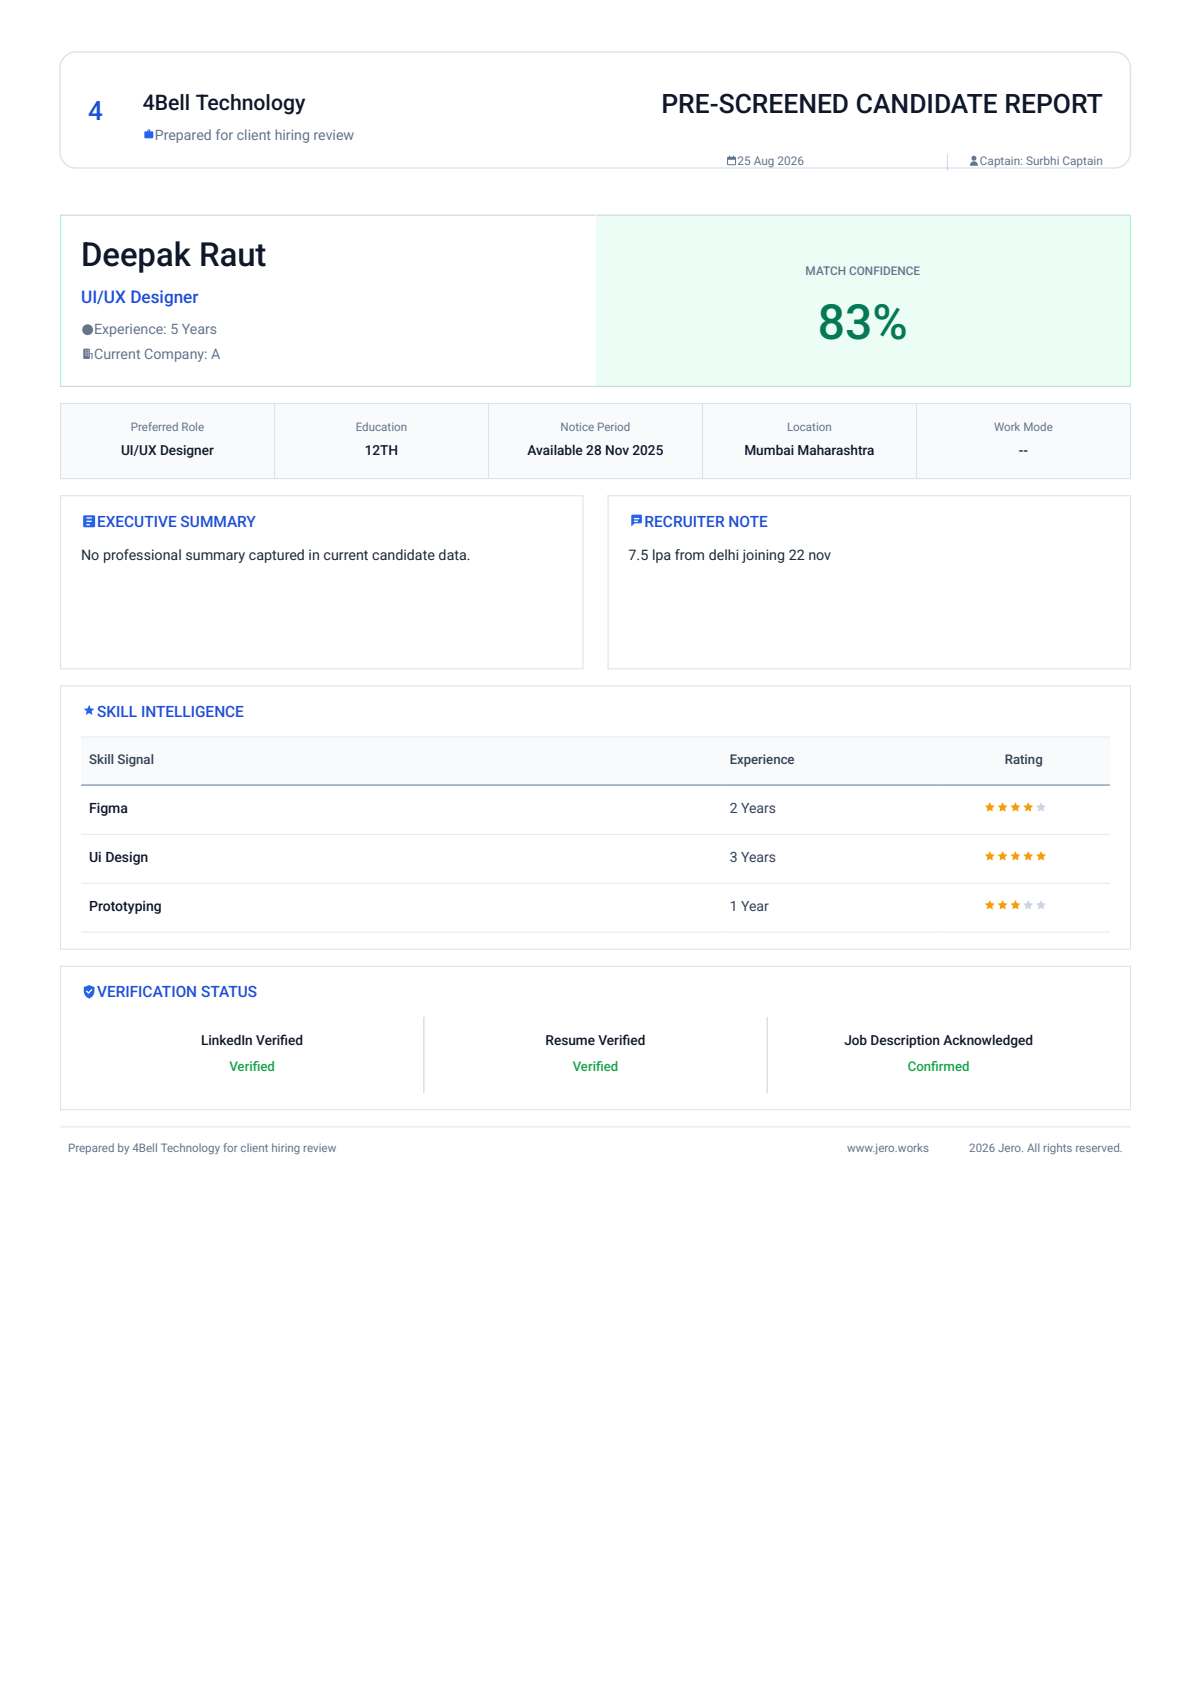
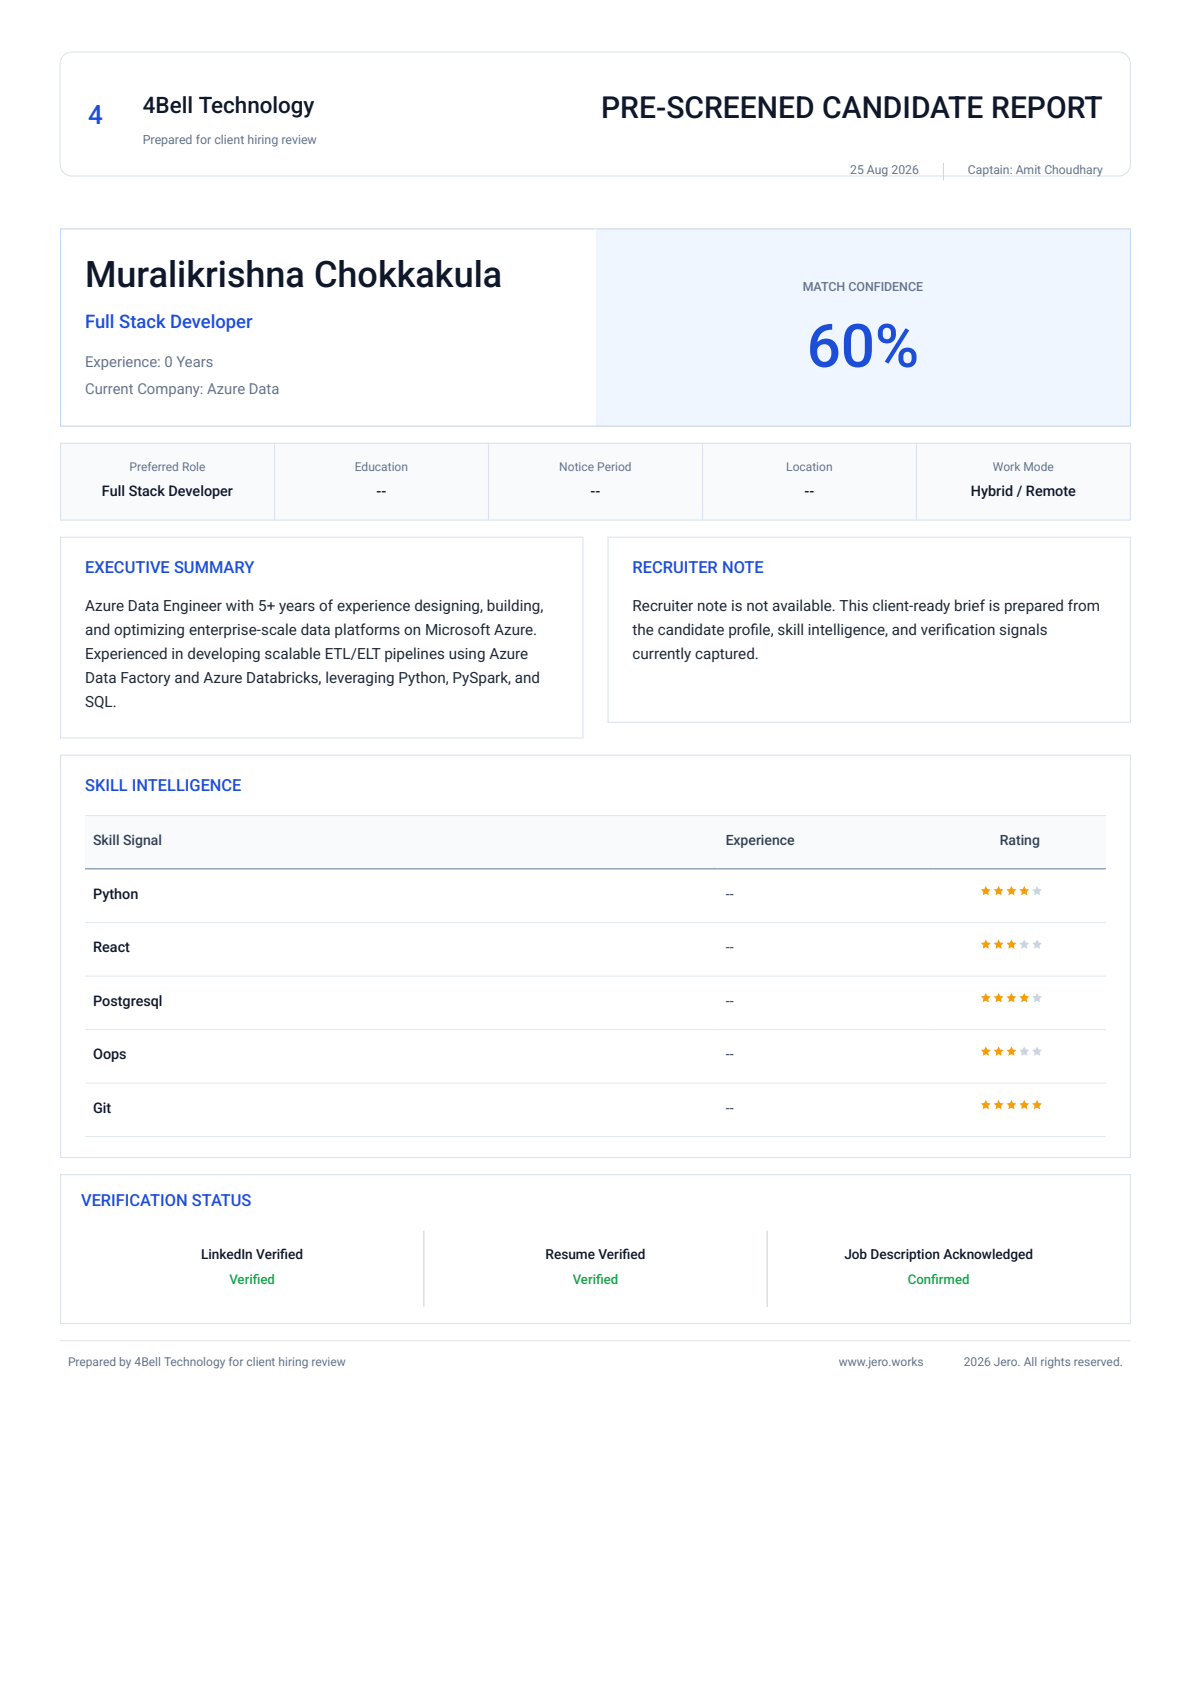
recruiter feedback

diff --git a/resources/views/service_company/job-applications/showdetail.blade.php b/resources/views/service_company/job-applications/showdetail.blade.php
@@ -5529,15 +5529,6 @@ setTimeout(() => {
 var rsPdfReady=null;
 var rsStarGold='<svg viewBox="0 0 24 24" xmlns="http://www.w3.org/2000/svg"><path fill="#f59e0b" d="M12 2.6l2.85 5.78 6.38.93-4.62 4.5 1.09 6.35L12 17.16l-5.7 3 1.09-6.35-4.62-4.5 6.38-.93L12 2.6z"/></svg>';
 var rsStarMuted='<svg viewBox="0 0 24 24" xmlns="http://www.w3.org/2000/svg"><path fill="#cbd5e1" d="M12 2.6l2.85 5.78 6.38.93-4.62 4.5 1.09 6.35L12 17.16l-5.7 3 1.09-6.35-4.62-4.5 6.38-.93L12 2.6z"/></svg>';
-var rsIconBriefcase='<svg viewBox="0 0 24 24" xmlns="http://www.w3.org/2000/svg"><path fill="#2563eb" d="M9 6V5a3 3 0 0 1 3-3h0a3 3 0 0 1 3 3v1h3.5A2.5 2.5 0 0 1 21 8.5v9A2.5 2.5 0 0 1 18.5 20h-13A2.5 2.5 0 0 1 3 17.5v-9A2.5 2.5 0 0 1 5.5 6H9zm2 0h2V5a1 1 0 0 0-2 0v1z"/></svg>';
-var rsIconCalendar='<svg viewBox="0 0 24 24" xmlns="http://www.w3.org/2000/svg"><path fill="#64748b" d="M7 2h2v2h6V2h2v2h1.5A2.5 2.5 0 0 1 21 6.5v12A2.5 2.5 0 0 1 18.5 21h-13A2.5 2.5 0 0 1 3 18.5v-12A2.5 2.5 0 0 1 5.5 4H7V2zm12 8H5v8.5c0 .28.22.5.5.5h13a.5.5 0 0 0 .5-.5V10z"/></svg>';
-var rsIconCaptain='<svg viewBox="0 0 24 24" xmlns="http://www.w3.org/2000/svg"><path fill="#64748b" d="M12 12a5 5 0 1 0 0-10 5 5 0 0 0 0 10zm-8 9a8 8 0 0 1 16 0v1H4v-1z"/></svg>';
-var rsIconCompany='<svg viewBox="0 0 24 24" xmlns="http://www.w3.org/2000/svg"><path fill="#64748b" d="M4 21V4a2 2 0 0 1 2-2h8a2 2 0 0 1 2 2v17h3v-9h-2v-2h3a1 1 0 0 1 1 1v10H4zm4-14h2V5H8v2zm4 0h2V5h-2v2zM8 11h2V9H8v2zm4 0h2V9h-2v2zm-4 4h2v-2H8v2zm4 0h2v-2h-2v2z"/></svg>';
-var rsIconExperience='<svg viewBox="0 0 24 24" xmlns="http://www.w3.org/2000/svg"><path fill="#64748b" d="M12 2a10 10 0 1 0 10 10A10.01 10.01 0 0 0 12 2zm1 11h5v-2h-4V6h-2v7z"/></svg>';
-var rsIconSummary='<svg viewBox="0 0 24 24" xmlns="http://www.w3.org/2000/svg"><path fill="#2563eb" d="M5 3h14a2 2 0 0 1 2 2v14a2 2 0 0 1-2 2H5a2 2 0 0 1-2-2V5a2 2 0 0 1 2-2zm3 5h8V6H8v2zm0 5h8v-2H8v2zm0 5h5v-2H8v2z"/></svg>';
-var rsIconNote='<svg viewBox="0 0 24 24" xmlns="http://www.w3.org/2000/svg"><path fill="#2563eb" d="M4 4a2 2 0 0 1 2-2h12a2 2 0 0 1 2 2v9a2 2 0 0 1-2 2H9l-5 5V4zm4 3v2h8V7H8zm0 4v2h6v-2H8z"/></svg>';
-var rsIconSkill='<svg viewBox="0 0 24 24" xmlns="http://www.w3.org/2000/svg"><path fill="#2563eb" d="M12 2l2.3 5.4 5.7.5-4.3 3.8 1.3 5.6-5-3-5 3 1.3-5.6L4 7.9l5.7-.5L12 2z"/></svg>';
-var rsIconShield='<svg viewBox="0 0 24 24" xmlns="http://www.w3.org/2000/svg"><path fill="#2563eb" d="M12 2l8 3v6c0 5-3.4 9.6-8 11-4.6-1.4-8-6-8-11V5l8-3zm-1 13.2l6-6-1.4-1.4L11 12.4 8.4 9.8 7 11.2l4 4z"/></svg>';
 function rsLoadScript(src){
   return new Promise(function(resolve,reject){
     var existing=document.querySelector('script[src="'+src+'"]');
@@ -5652,7 +5643,7 @@ function matchTone(score,completeness){
 function panel(stack,margin,fill,border){
   return {
     margin:margin||[0,0,0,7],
-    table:{widths:['*'],body:[[ {stack:Array.isArray(stack)?stack:[stack],margin:[10,8,10,8],fillColor:fill||'#ffffff'} ]]},
+    table:{widths:['*'],body:[[ {stack:Array.isArray(stack)?stack:[stack],margin:[12,10,12,10],fillColor:fill||'#ffffff'} ]]},
     layout:{
       hLineWidth:function(){return 0.55;}, vLineWidth:function(){return 0.55;},
       hLineColor:function(){return border||'#dbe3ef';}, vLineColor:function(){return border||'#dbe3ef';},
@@ -5664,7 +5655,7 @@ function panel(stack,margin,fill,border){
 function fixedPanel(stack,margin,fill,border,minHeight){
   return {
     margin:margin||[0,0,0,7],
-    table:{widths:['*'],heights:function(){return minHeight||72;},body:[[ {stack:Array.isArray(stack)?stack:[stack],margin:[10,8,10,8],fillColor:fill||'#ffffff'} ]]},
+    table:{widths:['*'],heights:function(){return minHeight||72;},body:[[ {stack:Array.isArray(stack)?stack:[stack],margin:[12,10,12,10],fillColor:fill||'#ffffff'} ]]},
     layout:{
       hLineWidth:function(){return 0.55;}, vLineWidth:function(){return 0.55;},
       hLineColor:function(){return border||'#dbe3ef';}, vLineColor:function(){return border||'#dbe3ef';},
@@ -5677,31 +5668,31 @@ function headerCard(companyName,logoCell,reportDate,captainName){
   return {
     margin:[0,0,0,10],
     stack:[
-      {canvas:[{type:'rect',x:0,y:0,w:535,h:58,r:8,lineWidth:0.7,lineColor:'#dbe3ef',color:'#ffffff'}],margin:[0,0,0,-58]},
+      {canvas:[{type:'rect',x:0,y:0,w:535,h:62,r:6,lineWidth:0.55,lineColor:'#dbe3ef',color:'#ffffff'}],margin:[0,0,0,-62]},
       {
         table:{widths:[220,'*'],body:[[
           {
             table:{widths:['auto','*'],body:[[logoCell,{stack:[
-              {text:companyName,fontSize:10.6,bold:true,color:'#0f172a',margin:[0,2,0,0]},
-              {stack:[iconLine(rsIconBriefcase,'Prepared for client hiring review',null,'#64748b',6)],margin:[0,3,0,0]}
+              {text:companyName,fontSize:11.2,bold:true,color:'#0f172a',margin:[0,1,0,0]},
+              {text:'Prepared for client hiring review',fontSize:6.2,color:'#64748b',margin:[0,4,0,0]}
             ],border:[false,false,false,false]}]]},
             layout:'noBorders',
-            margin:[14,13,10,10],
+            margin:[14,15,10,12],
             border:[false,false,false,false]
           },
           {
             stack:[
-              {text:'PRE-SCREENED CANDIDATE REPORT',style:'title',margin:[0,3,0,0]},
+              {text:'PRE-SCREENED CANDIDATE REPORT',style:'title',margin:[0,2,0,0]},
               {
-                margin:[0,14,0,0],
+                margin:[0,15,0,0],
                 table:{widths:['*','auto'],body:[[
-                  {columns:[{text:'',width:'*'},{svg:rsIconCalendar,width:6,margin:[0,0.5,3,0]},{text:clean(reportDate,'--'),fontSize:5.9,color:'#64748b'}],columnGap:0,border:[false,false,false,false],margin:[0,0,10,0]},
-                  {columns:[{svg:rsIconCaptain,width:6,margin:[0,0.5,3,0]},{text:'Captain: '+clean(captainName,'--'),fontSize:5.9,color:'#64748b'}],columnGap:0,border:[true,false,false,false],margin:[10,0,0,0]}
+                  {text:clean(reportDate,'--'),fontSize:6.1,color:'#64748b',alignment:'right',border:[false,false,false,false],margin:[0,0,12,0]},
+                  {text:'Captain: '+clean(captainName,'--'),fontSize:6.1,color:'#64748b',alignment:'right',border:[true,false,false,false],margin:[12,0,0,0]}
                 ]]},
                 layout:{hLineWidth:function(){return 0;},vLineWidth:function(i){return i===1?0.5:0;},vLineColor:function(){return '#cbd5e1';},paddingLeft:function(){return 0;},paddingRight:function(){return 0;},paddingTop:function(){return 0;},paddingBottom:function(){return 0;}}
               }
             ],
-            margin:[10,13,14,10],
+            margin:[10,15,14,12],
             border:[false,false,false,false]
           }
         ]]},
@@ -5714,8 +5705,8 @@ function pairedCardRow(leftStack,rightStack,leftFill,rightFill,rightBorder){
   return {
     margin:[0,0,0,8],
     table:{widths:['*','*'],body:[[
-      {stack:Array.isArray(leftStack)?leftStack:[leftStack],margin:[10,10,10,10],fillColor:leftFill||'#ffffff'},
-      {stack:Array.isArray(rightStack)?rightStack:[rightStack],margin:[10,10,10,10],fillColor:rightFill||'#ffffff'}
+      {stack:Array.isArray(leftStack)?leftStack:[leftStack],margin:[12,12,12,12],fillColor:leftFill||'#ffffff'},
+      {stack:Array.isArray(rightStack)?rightStack:[rightStack],margin:[12,12,12,12],fillColor:rightFill||'#ffffff'}
     ]]},
     layout:{
       hLineWidth:function(){return 0.55;},
@@ -5727,25 +5718,8 @@ function pairedCardRow(leftStack,rightStack,leftFill,rightFill,rightBorder){
     }
   };
 }
-function iconLine(icon,text,style,color,iconWidth){
-  return {
-    columns:[
-      {svg:icon,width:iconWidth||7,margin:[0,1,4,0]},
-      {text:text,style:style||'small',color:color||undefined}
-    ],
-    columnGap:0
-  };
-}
-function sectionTitle(title,subtle,icon){
-  if(!icon) return {text:title,style:subtle?'sectionTitleMuted':'sectionTitle',margin:[0,0,0,6]};
-  return {
-    columns:[
-      {svg:icon,width:8,margin:[0,0.5,4,0]},
-      {text:title,style:subtle?'sectionTitleMuted':'sectionTitle'}
-    ],
-    columnGap:0,
-    margin:[0,0,0,6]
-  };
+function sectionTitle(title,subtle){
+  return {text:title,style:subtle?'sectionTitleMuted':'sectionTitle',margin:[0,0,0,8]};
 }
 function metaCell(label,value,align){
   return {stack:[
@@ -5836,34 +5810,34 @@ function buildDefinition(data,logoUri){
     pageMargins:[30,26,30,24],
     defaultStyle:{font:'Roboto',fontSize:8,color:'#1f2937',lineHeight:1.22},
     styles:{
-      title:{fontSize:13.2,bold:true,color:'#0f172a',alignment:'right'},
-      eyebrow:{fontSize:5.9,color:'#64748b',alignment:'right'},
+      title:{fontSize:15,bold:true,color:'#0f172a',alignment:'right'},
+      eyebrow:{fontSize:6.2,color:'#64748b',alignment:'right'},
       metaLabel:{fontSize:5.7,color:'#64748b'},
-      metaValue:{fontSize:7.1,bold:true,color:'#111827'},
-      candidateName:{fontSize:16.4,bold:true,color:'#0f172a'},
-      designation:{fontSize:8.6,bold:true,color:'#1d4ed8'},
-      small:{fontSize:7.1,color:'#64748b'},
-      sectionTitle:{fontSize:7.7,bold:true,color:'#1d4ed8'},
-      sectionTitleMuted:{fontSize:7.4,bold:true,color:'#334155'},
-      tableHead:{fontSize:6.6,bold:true,color:'#334155',fillColor:'#f8fafc',margin:[0,5,0,5]},
-      tableCell:{fontSize:7,color:'#334155',margin:[0,5,0,5]},
-      tableCellBold:{fontSize:7,bold:true,color:'#0f172a',margin:[0,5,0,5]},
-      metricLabel:{fontSize:5.8,color:'#64748b'},
-      metricValue:{fontSize:6.8,bold:true,color:'#0f172a'},
-      muted:{fontSize:6.9,color:'#64748b'},
-      body:{fontSize:7.15,color:'#1f2937',lineHeight:1.24},
-      footer:{fontSize:5.8,color:'#64748b'}
+      metaValue:{fontSize:7.4,bold:true,color:'#111827'},
+      candidateName:{fontSize:18,bold:true,color:'#0f172a'},
+      designation:{fontSize:9.2,bold:true,color:'#1d4ed8'},
+      small:{fontSize:7.4,color:'#64748b'},
+      sectionTitle:{fontSize:8.2,bold:true,color:'#1d4ed8'},
+      sectionTitleMuted:{fontSize:8,bold:true,color:'#334155'},
+      tableHead:{fontSize:7,bold:true,color:'#334155',fillColor:'#f8fafc',margin:[0,6,0,6]},
+      tableCell:{fontSize:7.2,color:'#334155',margin:[0,6,0,6]},
+      tableCellBold:{fontSize:7.2,bold:true,color:'#0f172a',margin:[0,6,0,6]},
+      metricLabel:{fontSize:6,color:'#64748b'},
+      metricValue:{fontSize:7.2,bold:true,color:'#0f172a'},
+      muted:{fontSize:7,color:'#64748b'},
+      body:{fontSize:7.6,color:'#1f2937',lineHeight:1.35},
+      footer:{fontSize:6,color:'#64748b'}
     },
     content:[
       headerCard(companyName,logoCell,data.reportDate,data.recruiterName),
       pairedCardRow([
         {text:clean(data.name,'Candidate'),style:'candidateName'},
-        {text:clean(data.designation||data.jobTitle,'--'),style:'designation',margin:[0,2,0,5]},
-        iconLine(rsIconExperience,'Experience: '+clean(data.experience,'--'),'small','#64748b',6.5),
-        {stack:[iconLine(rsIconCompany,'Current Company: '+clean(data.company,'--'),'small','#64748b',6.5)],margin:[0,2,0,0]}
+        {text:clean(data.designation||data.jobTitle,'--'),style:'designation',margin:[0,3,0,8]},
+        {text:'Experience: '+clean(data.experience,'--'),style:'small'},
+        {text:'Current Company: '+clean(data.company,'--'),style:'small',margin:[0,3,0,0]}
       ],[
-        {text:'MATCH CONFIDENCE',fontSize:5.9,bold:true,color:'#64748b',alignment:'center',margin:[0,14,0,0]},
-        {text:score+'%',fontSize:24,bold:true,color:tone.color,alignment:'center',margin:[0,7,0,0]}
+        {text:'MATCH CONFIDENCE',fontSize:6.2,bold:true,color:'#64748b',alignment:'center',margin:[0,13,0,0]},
+        {text:score+'%',fontSize:30,bold:true,color:'#1d4ed8',alignment:'center',margin:[0,7,0,0]}
       ],'#ffffff',tone.fill,tone.border),
       {
         margin:[0,0,0,8],
@@ -5878,13 +5852,13 @@ function buildDefinition(data,logoUri){
       },
       {
         columns:[
-          fixedPanel([sectionTitle('EXECUTIVE SUMMARY',false,rsIconSummary),{text:summary,style:'body'}],[0,0,6,8],'#ffffff','#dbe3ef',86),
-          fixedPanel([sectionTitle('RECRUITER NOTE',false,rsIconNote),{text:note,style:'body'}],[6,0,0,8],'#ffffff','#dbe3ef',86)
+          fixedPanel([sectionTitle('EXECUTIVE SUMMARY'),{text:summary,style:'body'}],[0,0,6,8],'#ffffff','#dbe3ef',92),
+          fixedPanel([sectionTitle('RECRUITER NOTE'),{text:note,style:'body'}],[6,0,0,8],'#ffffff','#dbe3ef',92)
         ],
         columnGap:0
       },
       panel([
-        sectionTitle('SKILL INTELLIGENCE',false,rsIconSkill),
+        sectionTitle('SKILL INTELLIGENCE'),
         {table:{widths:['*',100,78],body:buildSkillRows(data.skills)},layout:{
           hLineWidth:function(i){return i===1?0.75:0.45;},
           vLineWidth:function(){return 0;},
@@ -5894,7 +5868,7 @@ function buildDefinition(data,logoUri){
       {
         margin:[0,0,0,8],
         table:{widths:['*'],body:[[{stack:[
-          sectionTitle('VERIFICATION STATUS',false,rsIconShield),
+          sectionTitle('VERIFICATION STATUS'),
           {table:{widths:['*','*','*'],body:buildValidationRows(data.validation)},layout:{
             hLineWidth:function(){return 0;},
             vLineWidth:function(i){return i>0&&i<3?0.55:0;},
